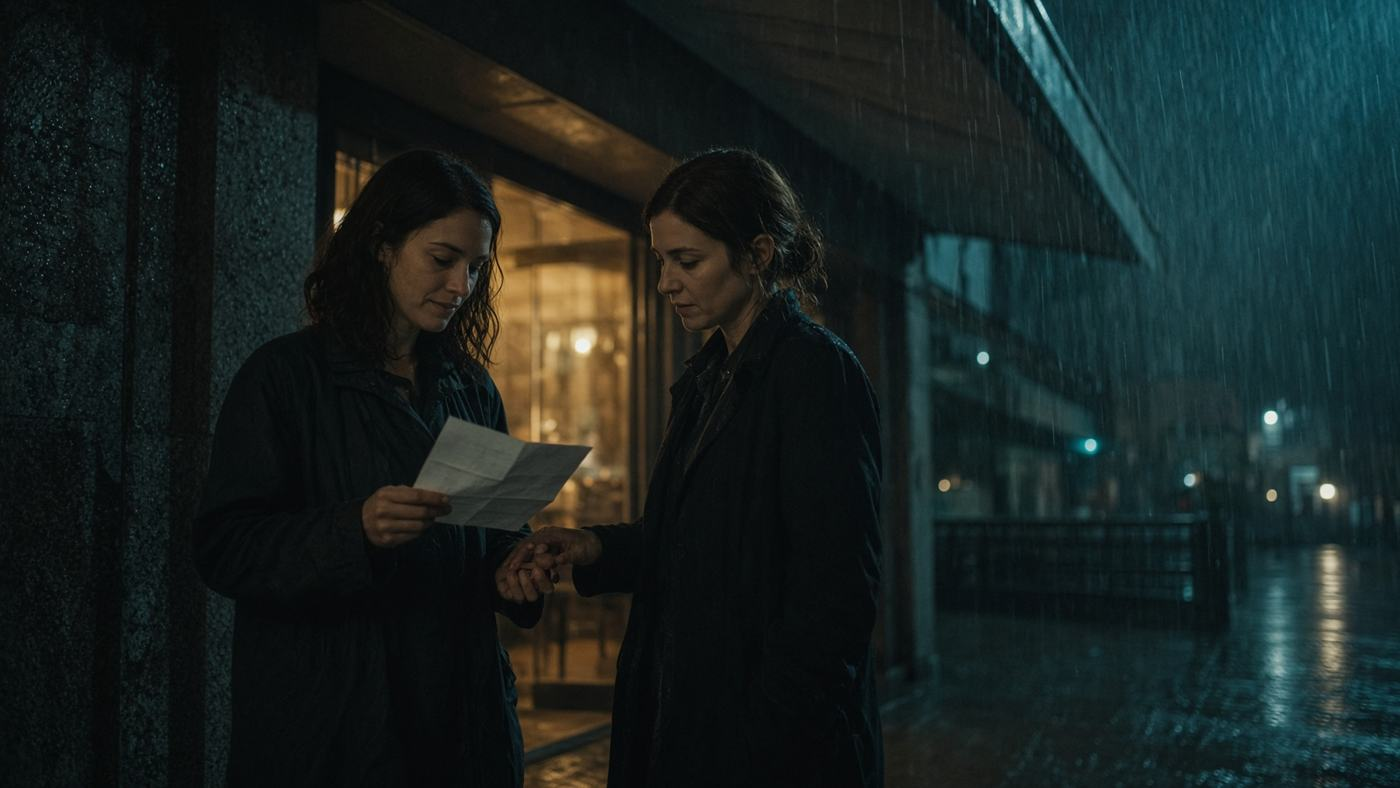
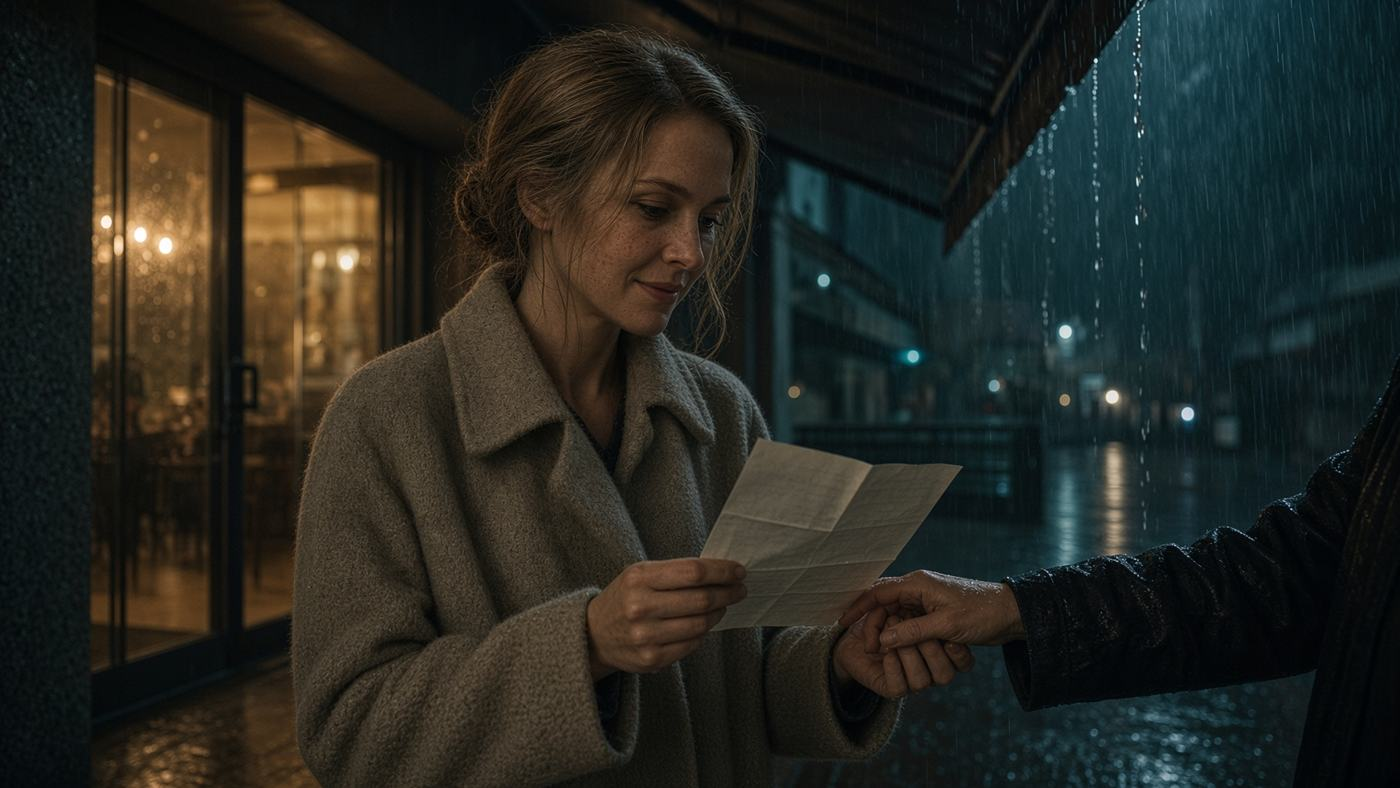
Put each story's women in the scenes.

diff --git a/src/lib/refugio/scene-frames.ts b/src/lib/refugio/scene-frames.ts
@@ -1,51 +1,68 @@
 import type { Lang, Story } from "@/lib/refugio/stories";
 
-const frames: Record<string, Record<string, { art: string; where: Record<Lang, string> }>> = {
+const frames: Record<string, Record<string, {
+  art: string;
+  where: Record<Lang, string>;
+  artIf?: Array<{ if: string; art: string; where: Record<Lang, string> }>;
+}>> = {
   passageira: {
-    banco: { art: "/scenes/passageira-banco.jpg", where: { pt: "Dentro do carro", es: "Dentro del coche", en: "Inside the car" } },
+    banco: { art: "/scenes/passageira-banco.jpg", where: { pt: "Dentro do carro — Renata", es: "Dentro del coche — Renata", en: "Inside the car — Renata" } },
     tras: { art: "/scenes/passageira-tras.jpg", where: { pt: "O banco de trás", es: "El asiento de atrás", en: "The back seat" } },
-    marginal: { art: "/scenes/passageira-marginal.jpg", where: { pt: "Na marginal", es: "En la avenida", en: "On the overpass" } },
-    posto: { art: "/scenes/passageira-posto.jpg", where: { pt: "Posto fechado", es: "Estación cerrada", en: "Closed station" } },
-    farol: { art: "/scenes/passageira-farol.jpg", where: { pt: "Debaixo do farol", es: "Bajo el farol", en: "Under the light" } },
-    "fim-curva": { art: "/scenes/passageira-curva.jpg", where: { pt: "A curva", es: "La curva", en: "The curve" } },
+    marginal: { art: "/scenes/passageira-marginal.jpg", where: { pt: "Na marginal — Renata", es: "En la avenida — Renata", en: "On the overpass — Renata" } },
+    posto: { art: "/scenes/passageira-posto.jpg", where: { pt: "Posto fechado — Renata", es: "Estación cerrada — Renata", en: "Closed station — Renata" } },
+    farol: {
+      art: "/scenes/passageira-farol.jpg",
+      where: { pt: "Debaixo do farol — Marina", es: "Bajo el farol — Marina", en: "Under the light — Marina" },
+      artIf: [
+        { if: "posto:atender", art: "/scenes/passageira-farol-atender.jpg", where: { pt: "Debaixo do farol — Marina", es: "Bajo el farol — Marina", en: "Under the light — Marina" } },
+        { if: "posto:viva", art: "/scenes/passageira-farol-viva.jpg", where: { pt: "No carro — Renata e Marina", es: "En el coche — Renata y Marina", en: "In the car — Renata and Marina" } },
+      ],
+    },
+    "fim-curva": { art: "/scenes/passageira-curva.jpg", where: { pt: "A curva — Renata e Marina", es: "La curva — Renata y Marina", en: "The curve — Renata and Marina" } },
     "fim-casaco": { art: "/scenes/passageira-casaco.jpg", where: { pt: "O que ficou no banco", es: "Lo que quedó en el asiento", en: "What stayed on the seat" } },
-    "fim-porta": { art: "/scenes/passageira-porta.jpg", where: { pt: "A porta fechada", es: "La puerta cerrada", en: "The closed door" } },
+    "fim-porta": { art: "/scenes/passageira-porta.jpg", where: { pt: "A porta fechada — Renata e Marina", es: "La puerta cerrada — Renata y Marina", en: "The closed door — Renata and Marina" } },
   },
   correspondencia: {
     caixa: { art: "/scenes/correspondencia-caixa.jpg", where: { pt: "A caixa de correio", es: "El buzón", en: "The mailbox" } },
     leitura: { art: "/scenes/correspondencia-leitura.jpg", where: { pt: "A carta", es: "La carta", en: "The letter" } },
-    escada: { art: "/scenes/correspondencia-escada.jpg", where: { pt: "O último lance", es: "El último tramo", en: "The last flight" } },
+    escada: { art: "/scenes/correspondencia-escada.jpg", where: { pt: "O último lance — Helena", es: "El último tramo — Helena", en: "The last flight — Helena" } },
     portaria: { art: "/scenes/correspondencia-portaria.jpg", where: { pt: "A portaria", es: "La portería", en: "The lobby desk" } },
-    mesa: { art: "/scenes/correspondencia-mesa.jpg", where: { pt: "No chão", es: "En el suelo", en: "On the floor" } },
-    "fim-resposta": { art: "/scenes/correspondencia-resposta.jpg", where: { pt: "Debaixo da marquise", es: "Bajo la marquesina", en: "Under the awning" } },
+    mesa: { art: "/scenes/correspondencia-mesa.jpg", where: { pt: "Na janela — Helena", es: "En la ventana — Helena", en: "At the window — Helena" } },
+    "fim-resposta": { art: "/scenes/correspondencia-resposta.jpg", where: { pt: "Debaixo da marquise — Helena", es: "Bajo la marquesina — Helena", en: "Under the awning — Helena" } },
     "fim-escada": { art: "/scenes/correspondencia-escada-fim.jpg", where: { pt: "O copo", es: "El vaso", en: "The glass" } },
     "fim-nome": { art: "/scenes/correspondencia-nome.jpg", where: { pt: "A carta que amarela", es: "La carta que amarillea", en: "The letter that yellows" } },
   },
   sobremesa: {
-    forno: { art: "/scenes/sobremesa-forno.jpg", where: { pt: "A cozinha de serviço", es: "La cocina de servicio", en: "The service kitchen" } },
-    gelo: { art: "/scenes/sobremesa-gelo.jpg", where: { pt: "A despensa", es: "La despensa", en: "The pantry" } },
-    sala: { art: "/scenes/sobremesa-sala.jpg", where: { pt: "A sala", es: "El comedor", en: "The dining room" } },
+    forno: { art: "/scenes/sobremesa-forno.jpg", where: { pt: "A cozinha — Clara e Nanda", es: "La cocina — Clara y Nanda", en: "The kitchen — Clara and Nanda" } },
+    gelo: { art: "/scenes/sobremesa-gelo.jpg", where: { pt: "A despensa — Nanda", es: "La despensa — Nanda", en: "The pantry — Nanda" } },
+    sala: { art: "/scenes/sobremesa-sala.jpg", where: { pt: "A sala — Clara e Nanda", es: "El comedor — Clara y Nanda", en: "The dining room — Clara and Nanda" } },
     sal: { art: "/scenes/sobremesa-sal.jpg", where: { pt: "A porta da despensa", es: "La puerta de la despensa", en: "The pantry door" } },
-    "fim-conta": { art: "/scenes/sobremesa-conta.jpg", where: { pt: "O beco", es: "El callejón", en: "The alley" } },
+    "fim-conta": { art: "/scenes/sobremesa-conta.jpg", where: { pt: "O beco — Nanda", es: "El callejón — Nanda", en: "The alley — Nanda" } },
     "fim-prato": { art: "/scenes/sobremesa-prato.jpg", where: { pt: "Debaixo do prato", es: "Debajo del plato", en: "Under the plate" } },
     "fim-cozinha": { art: "/scenes/sobremesa-cozinha.jpg", where: { pt: "Depois da sobremesa", es: "Después del postre", en: "After dessert" } },
   },
   corredor: {
-    porta714: { art: "/scenes/corredor-porta.jpg", where: { pt: "A porta", es: "La puerta", en: "The door" } },
-    corredor: { art: "/scenes/corredor-corredor.jpg", where: { pt: "O corredor", es: "El pasillo", en: "The corridor" } },
-    elevador: { art: "/scenes/corredor-elevador.jpg", where: { pt: "O elevador", es: "El ascensor", en: "The elevator" } },
-    "fim-saguao": { art: "/scenes/corredor-saguao.jpg", where: { pt: "O saguão", es: "El vestíbulo", en: "The lobby" } },
+    porta714: { art: "/scenes/corredor-porta.jpg", where: { pt: "A porta — Iara", es: "La puerta — Iara", en: "The door — Iara" } },
+    corredor: { art: "/scenes/corredor-corredor.jpg", where: { pt: "O corredor — Iara", es: "El pasillo — Iara", en: "The corridor — Iara" } },
+    elevador: { art: "/scenes/corredor-elevador.jpg", where: { pt: "O elevador — Iara", es: "El ascensor — Iara", en: "The elevator — Iara" } },
+    "fim-saguao": { art: "/scenes/corredor-saguao.jpg", where: { pt: "O saguão — Iara", es: "El vestíbulo — Iara", en: "The lobby — Iara" } },
     "fim-virar": { art: "/scenes/corredor-virar.jpg", where: { pt: "O quarto", es: "La habitación", en: "The room" } },
     "fim-batida": { art: "/scenes/corredor-batida.jpg", where: { pt: "Debaixo da porta", es: "Debajo de la puerta", en: "Under the door" } },
   },
   depoimento: {
-    sala: { art: "/scenes/depoimento-sala.jpg", where: { pt: "A sala", es: "La sala", en: "The room" } },
-    frase: { art: "/scenes/depoimento-frase.jpg", where: { pt: "O gravador", es: "La grabadora", en: "The recorder" } },
-    del: { art: "/scenes/depoimento-del.jpg", where: { pt: "O corredor", es: "El pasillo", en: "The corridor" } },
-    hospital: { art: "/scenes/depoimento-hospital.jpg", where: { pt: "O hospital", es: "El hospital", en: "The hospital" } },
+    sala: { art: "/scenes/depoimento-sala.jpg", where: { pt: "A sala — Elisa", es: "La sala — Elisa", en: "The room — Elisa" } },
+    frase: {
+      art: "/scenes/depoimento-frase.jpg",
+      where: { pt: "O gravador — Elisa", es: "La grabadora — Elisa", en: "The recorder — Elisa" },
+      artIf: [
+        { if: "sala:pulo", art: "/scenes/depoimento-frase-pulo.jpg", where: { pt: "O gravador — Elisa", es: "La grabadora — Elisa", en: "The recorder — Elisa" } },
+      ],
+    },
+    del: { art: "/scenes/depoimento-del.jpg", where: { pt: "O corredor — Duda", es: "El pasillo — Duda", en: "The corridor — Duda" } },
+    hospital: { art: "/scenes/depoimento-hospital.jpg", where: { pt: "O hospital — Soraia", es: "El hospital — Soraia", en: "The hospital — Soraia" } },
     "fim-versao": { art: "/scenes/depoimento-versao.jpg", where: { pt: "O arquivo", es: "El archivo", en: "The file" } },
     "fim-nome": { art: "/scenes/depoimento-nome.jpg", where: { pt: "A cadeira", es: "La silla", en: "The chair" } },
-    "fim-silencio": { art: "/scenes/depoimento-silencio.jpg", where: { pt: "A porta de casa", es: "La puerta de casa", en: "The door at home" } },
+    "fim-silencio": { art: "/scenes/depoimento-silencio.jpg", where: { pt: "A porta de casa — Soraia", es: "La puerta de casa — Soraia", en: "The door at home — Soraia" } },
   },
 };
 
@@ -59,6 +76,7 @@ export function applyFrames(book: Record<Lang, Story[]>) {
         if (!frame) continue;
         scene.art = frame.art;
         scene.where = frame.where[lang];
+        scene.artIf = frame.artIf?.map((item) => ({ if: item.if, art: item.art, where: item.where[lang] }));
       }
       const opening = pack[story.start];
       if (opening) story.art = opening.art;

diff --git a/src/components/refugio/story-reader.tsx b/src/components/refugio/story-reader.tsx
@@ -325,8 +325,10 @@ export function StoryReader({ slug }: { slug: string }) {
       ? t.sameStingLow.replace("{n}", String(samePercent))
       : null;
   const visibleClues = shownClues(clues);
-  const backdrop = dress || scene.art || artOf(story);
-  const frameCaption = showMorning && morning ? morning.title : scene.where || "";
+  const shot = remembered(scene.artIf, picks);
+  const still = shot?.art || scene.art;
+  const backdrop = dress || still || artOf(story);
+  const frameCaption = showMorning && morning ? morning.title : shot?.where || scene.where || "";
 
   return (
     <StoryShell>
@@ -371,7 +373,7 @@ export function StoryReader({ slug }: { slug: string }) {
             {visibleClues.length === 0 ? <p>{t.noClue}</p> : <ul>{visibleClues.map((clue) => <li key={clue}>{clue}</li>)}</ul>}
           </aside>
           <div className="reader-sheet">
-            {scene.art ? <SceneFrame src={scene.art} caption={frameCaption} morning={Boolean(showMorning && morning)} /> : null}
+            {still ? <SceneFrame src={still} caption={frameCaption} morning={Boolean(showMorning && morning)} /> : null}
             {scene.speaker ? <p className="reader-who">{scene.speaker}</p> : null}
             {scene.music?.startsWith("t") ? (
               <p className="house-note">

diff --git a/src/lib/refugio/stories.ts b/src/lib/refugio/stories.ts
@@ -39,6 +39,8 @@ export type Scene = {
   after?: Array<{ if: string; line: string }>;
   /** Still for this place. Changes when the scene changes. */
   art?: string;
+  /** A different still when an earlier choice was taken. */
+  artIf?: Array<{ if: string; art: string; where?: string }>;
   /** Short name of the place, shown under the still. */
   where?: string;
 };
